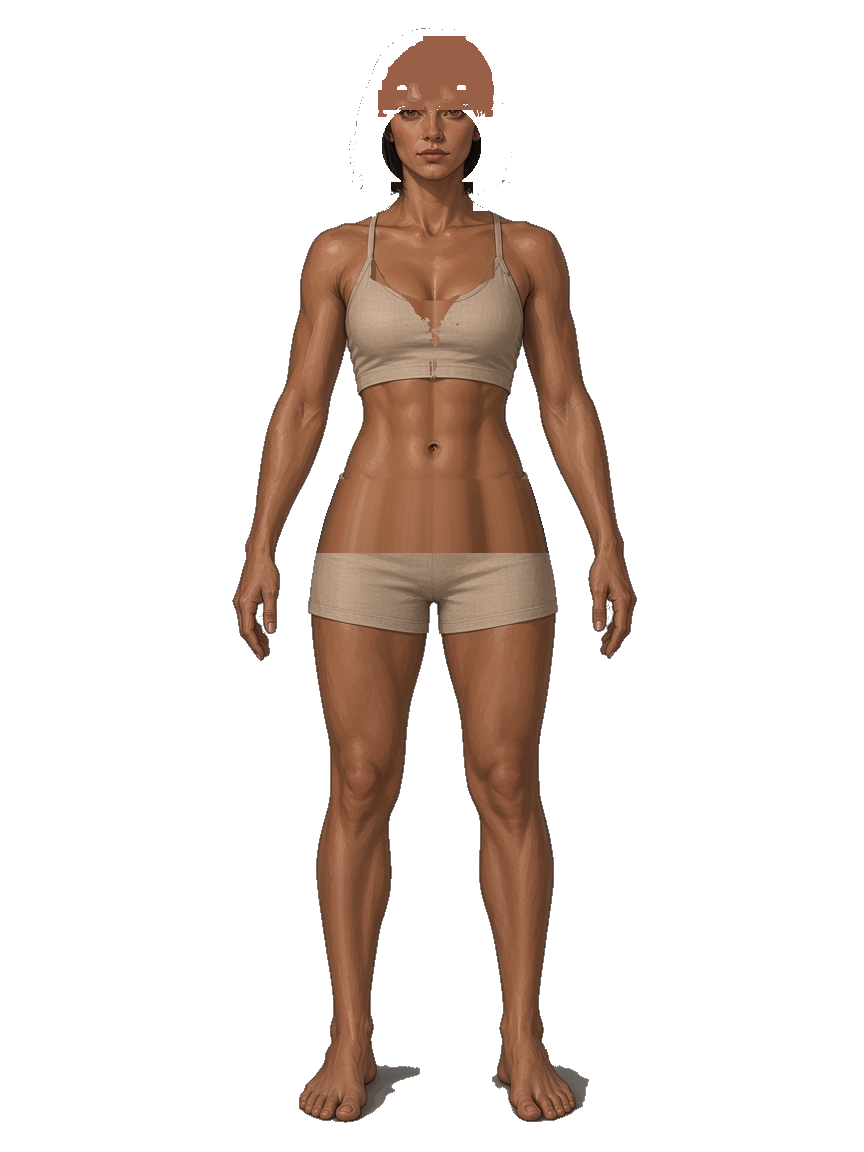
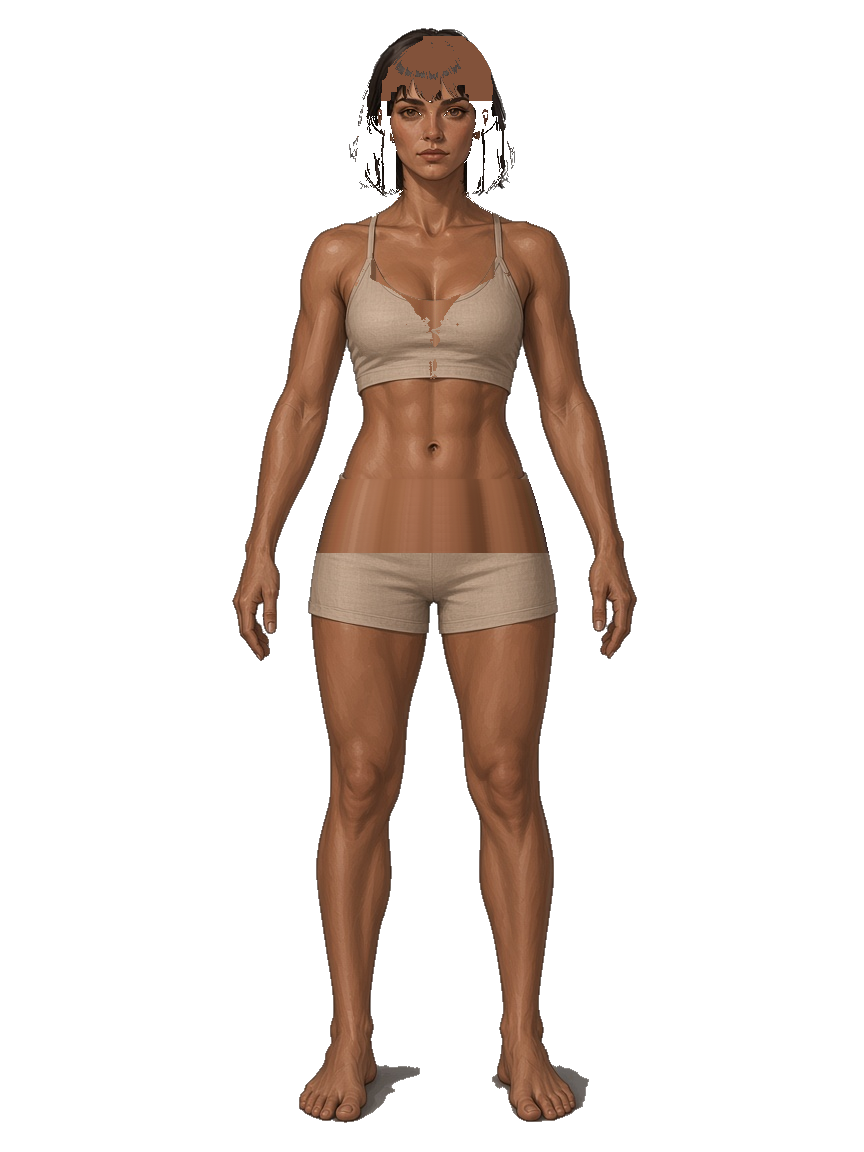
dolltest: cut the common female helmet and visible hair as one piece.
The helmet-on holes at the eyes and gray gaps beside the cheek guards
were uncovered punches in the no-hair base. The common female helmet is
now a single antialiased cut from the on-base painting (helmet plus
bangs and tucked bob) sitting on the no-hair base, so that piece fully
covers the hidden hair. Other-tier hair plates use the same visible
hair. The common hood opening crumbs are cleaned. Helmet off still uses
the normal base hair.

Changed region(s): [[0.4062, 0.0, 0.5938, 0.1875]]

diff --git a/dolltest/v5/layers.html b/dolltest/v5/layers.html
@@ -101,7 +101,7 @@
     let gender = "male";
     const pick = Object.fromEntries(SLOTS.map((s) => [s, "common"]));
     // Bump this whenever layer PNGs change so iOS Safari does not keep stale tiles.
-    const LAYER_V = "20261116-helmet-hair";
+    const LAYER_V = "20261116-helmet-piece";
 
     const $ = (id) => document.getElementById(id);
 
@@ -163,7 +163,9 @@
         }
       }
       const hair = $("layer-hair");
-      if (pick.helmet && gender === "female") {
+      // Common female helmet is a single source-cut piece that already includes
+      // the visible hair, so the extra hair plate is not drawn.
+      if (pick.helmet && gender === "female" && pick.helmet !== "common") {
         hair.style.display = "block";
         hair.src = "hair/female-helmet-" + pick.helmet + ".png?v=" + LAYER_V;
       } else {
